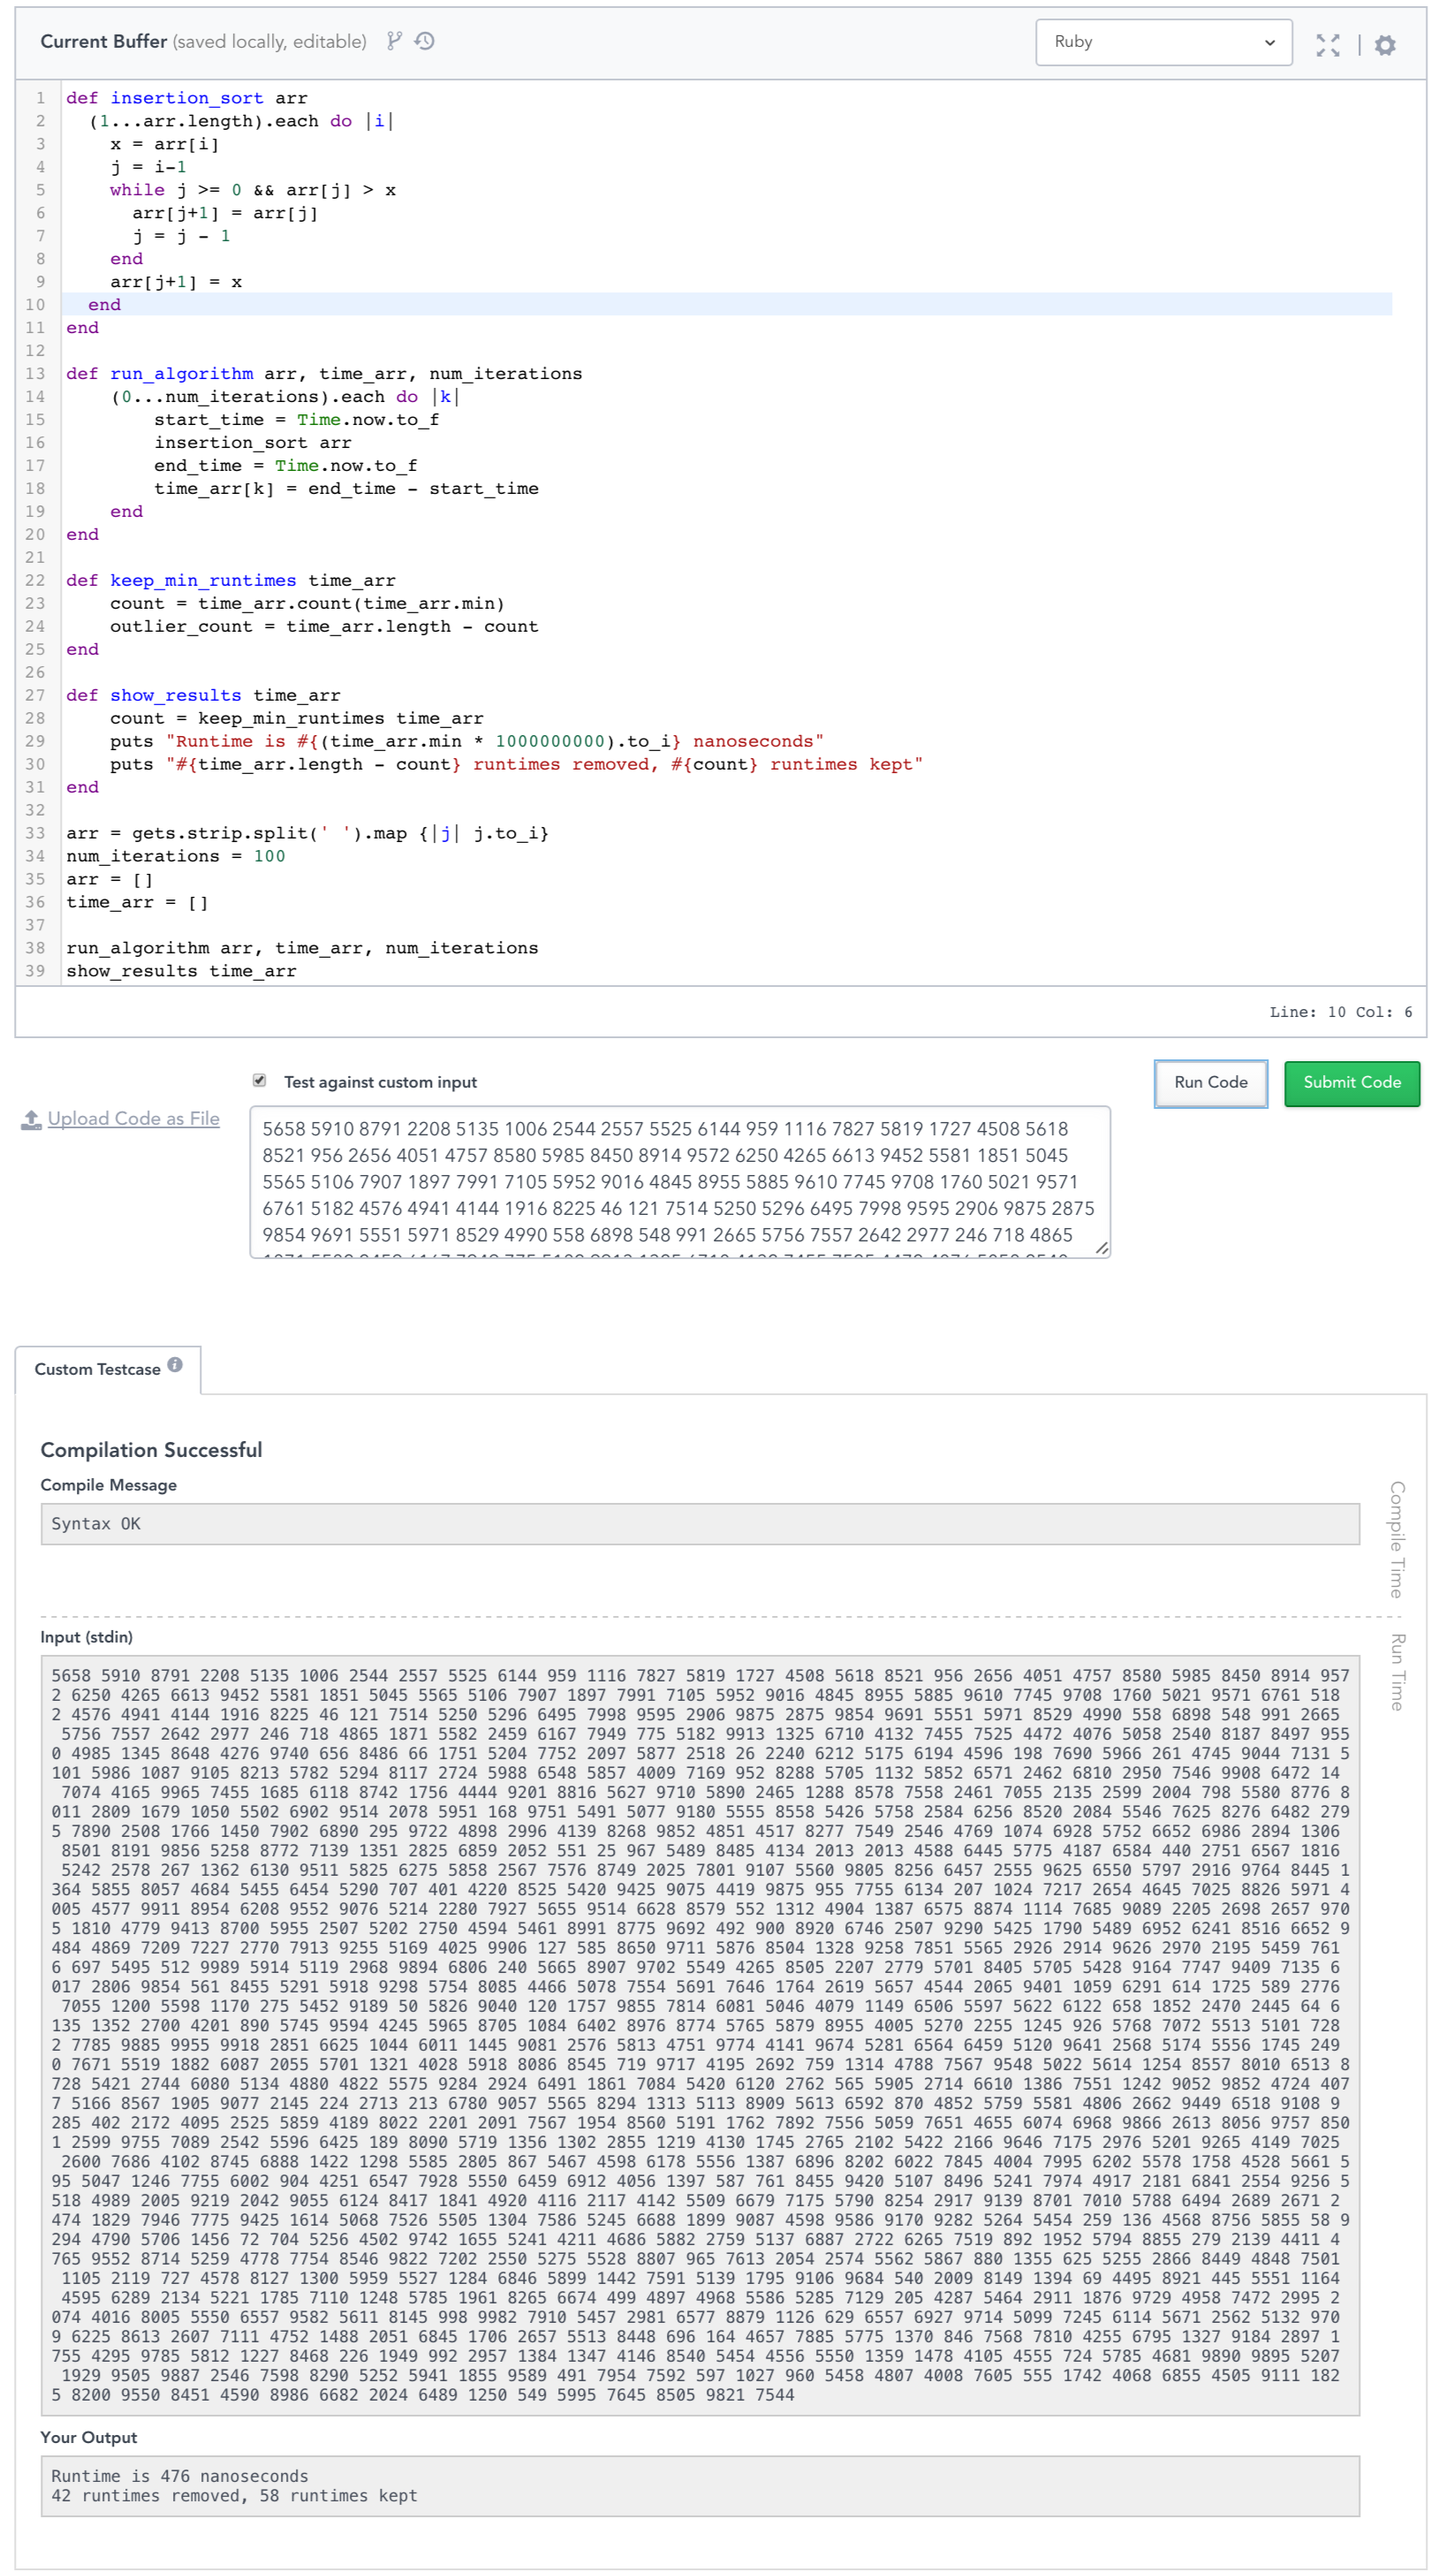
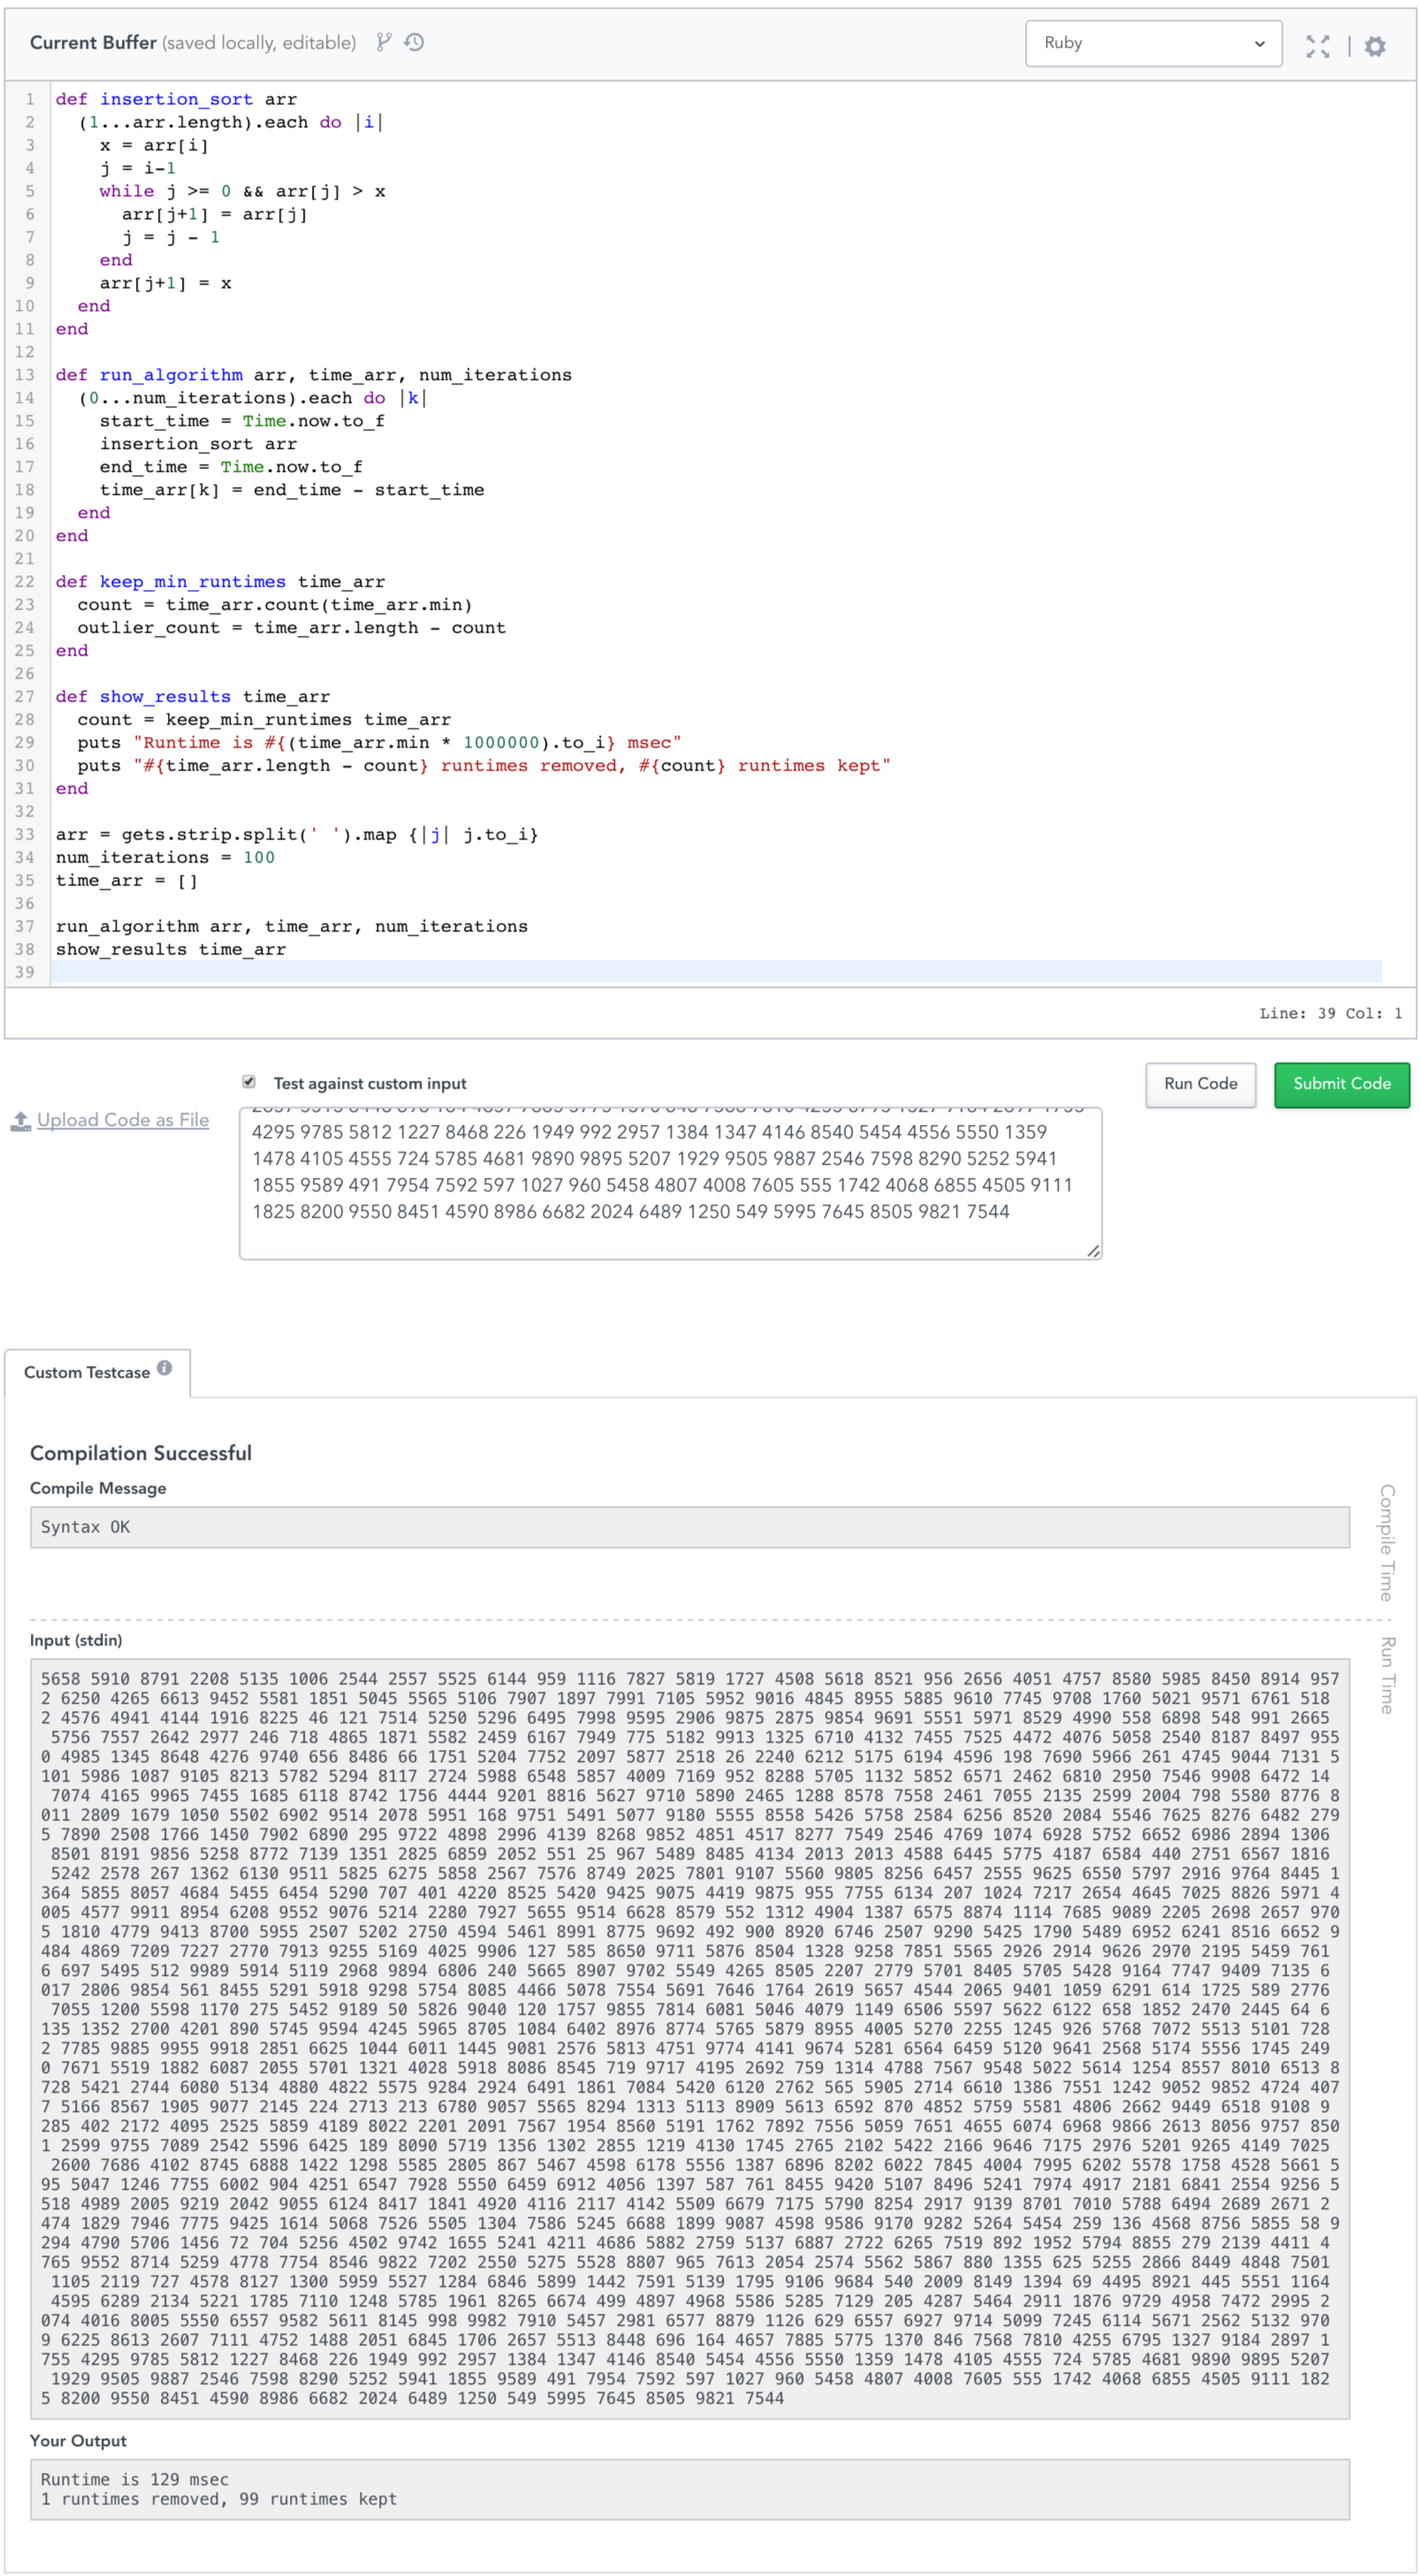
fix empty string

diff --git a/insertion_sort_runtime.rb b/insertion_sort_runtime.rb
@@ -1,0 +1,38 @@
+def insertion_sort arr
+  (1...arr.length).each do |i|
+    x = arr[i]
+    j = i-1
+    while j >= 0 && arr[j] > x
+      arr[j+1] = arr[j]
+      j = j - 1
+    end
+    arr[j+1] = x
+  end
+end
+
+def run_algorithm arr, time_arr, num_iterations
+  (0...num_iterations).each do |k|
+    start_time = Time.now.to_f
+    insertion_sort arr
+    end_time = Time.now.to_f
+    time_arr[k] = end_time - start_time
+  end
+end
+
+def keep_min_runtimes time_arr
+  count = time_arr.count(time_arr.min)
+  outlier_count = time_arr.length - count
+end
+
+def show_results time_arr
+  count = keep_min_runtimes time_arr
+  puts "Runtime is #{(time_arr.min * 1000000).to_i} msec"
+  puts "#{time_arr.length - count} runtimes removed, #{count} runtimes kept"
+end
+
+arr = gets.strip.split(' ').map {|j| j.to_i}
+num_iterations = 100
+time_arr = []
+
+run_algorithm arr, time_arr, num_iterations
+show_results time_arr

diff --git a/README.md b/README.md
@@ -4,7 +4,7 @@ Ruby has extremely forgiving **magic** where you don't have to declare variable 
 
 Let's measure the actual performance of these Ruby algorithms against C, C++, and Java.  This is a work in progess and currently Insertion Sort in Ruby runtimes are measured.  See below.
 
-My test setup utilizes the HackerRank.com engine which uploads algorithms written in 38+ different languages. Macbooks are not suitable for benchmarking because the runtimes vary greatly and are 28,000 times longer than HackerRank's engine.
+My test setup utilizes the HackerRank.com engine which uploads algorithms written in 38+ different languages. Macbooks are not suitable for benchmarking because the runtimes vary greatly from iteration to iteration.
 
 Here are HackerRank's AWS/EC2 configurations by language: https://www.hackerrank.com/environment
 
